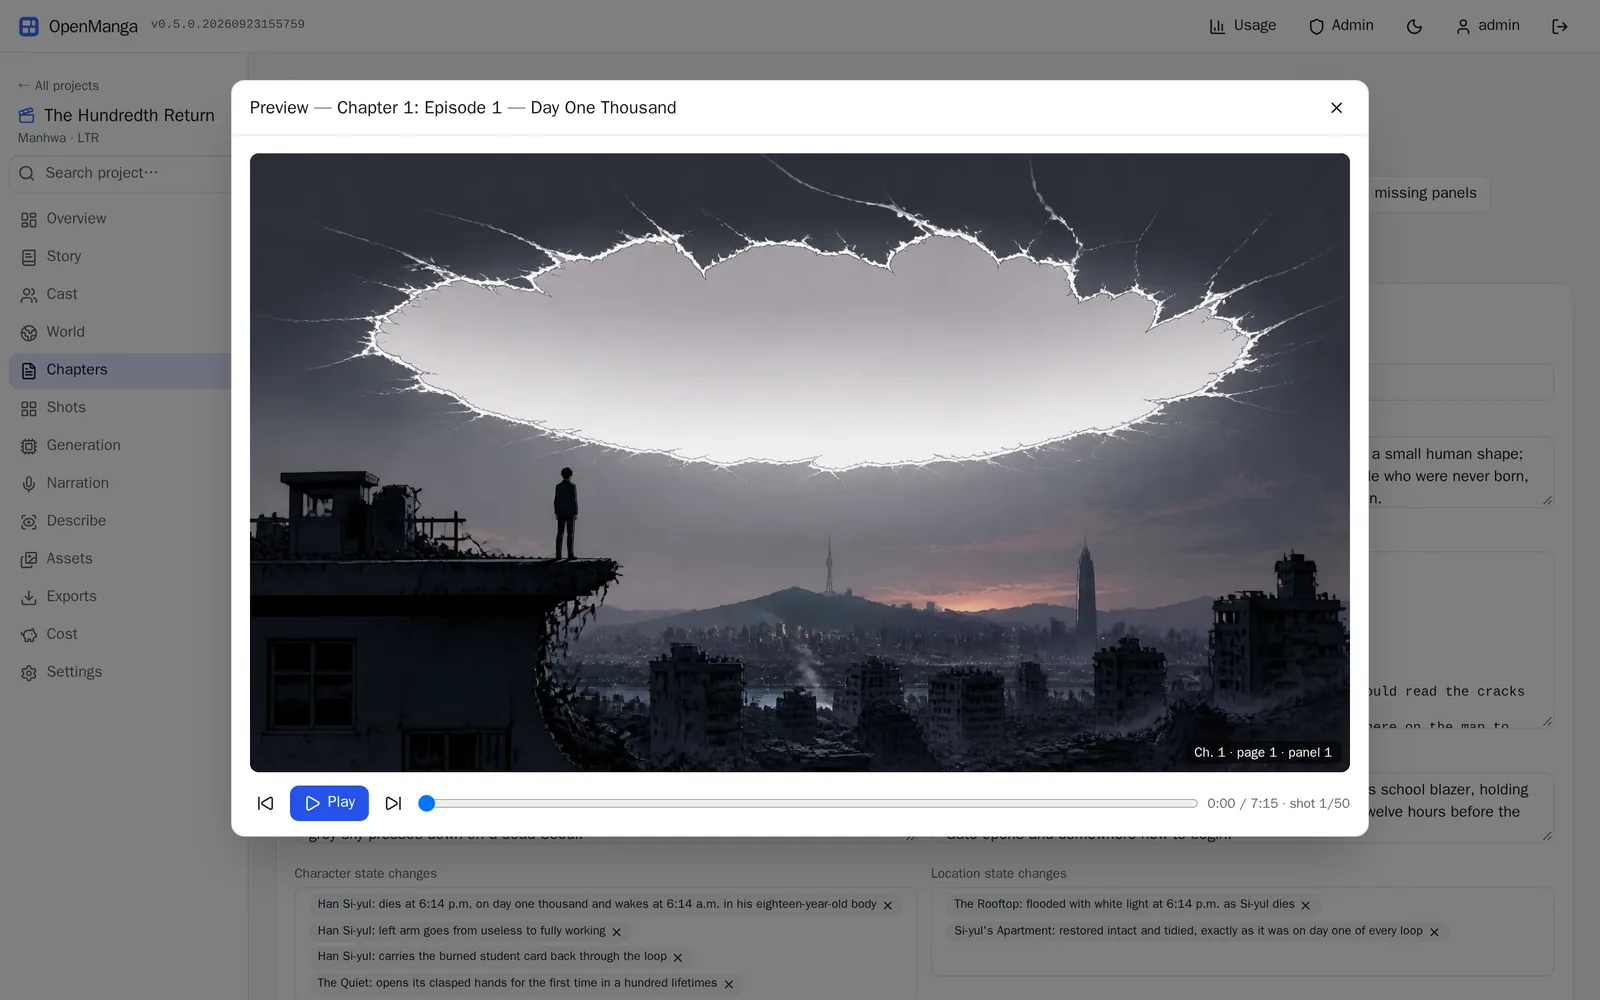
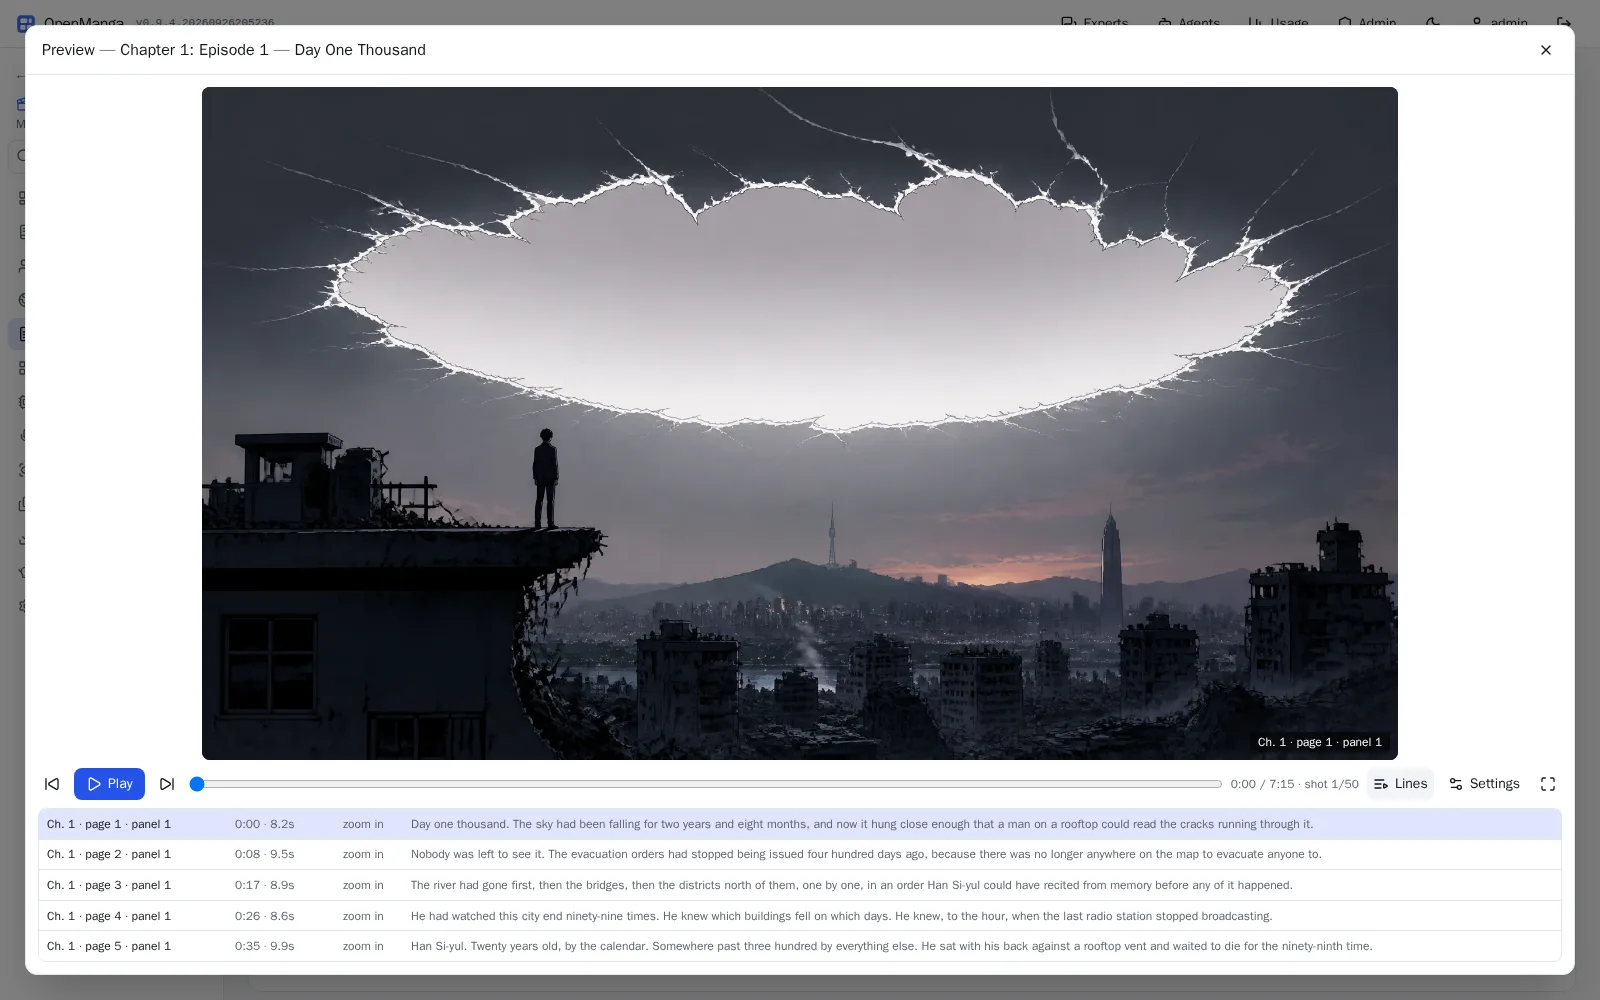
Video preview fixes and new README screenshot (#100)
Merge of staging to master without a release (no version bump, tag or deploy).

- #97: video preview keeps the theme's colours in full screen.
- #98: the fifth line of the shot list shows in full.
- #99: new video preview screenshot in the README.

diff --git a/apps/web/src/features/video/VideoPreview.tsx b/apps/web/src/features/video/VideoPreview.tsx
@@ -437,7 +437,12 @@ export function VideoPreview({
       ) : preview.error ? (
         <ErrorBox error={preview.error} onRetry={() => preview.refetch()} />
       ) : (
-        <div ref={rootRef} className={`flex h-full flex-col gap-2 ${fullscreen ? "bg-black p-3 text-white" : ""}`}>
+        // Full screen keeps the app's own panel colours around the picture (the picture itself is black), so the lines and
+        // settings read exactly as they do in the window, in either theme.
+        <div
+          ref={rootRef}
+          className={`flex h-full flex-col gap-2 ${fullscreen ? "bg-[var(--panel)] p-3 text-[var(--text)]" : ""}`}
+        >
           {/* The picture: all the room the rest leaves. */}
           <div ref={areaRef} className="flex min-h-0 flex-1 items-center justify-center">
             {/* Clicking the picture plays or pauses, like any video player. */}
@@ -614,10 +619,10 @@ export function VideoPreview({
           )}
 
           {showLines && (
-            // Exactly five rows tall; it scrolls, following the shot being played.
+            // Exactly five rows tall (rows, their four dividers and the border); it scrolls, following the current shot.
             <ol
               ref={listRef}
-              className="h-[9.25rem] shrink-0 divide-y divide-[var(--border)] overflow-y-auto rounded-lg border border-[var(--border)] text-xs"
+              className="h-[calc(5*1.85rem+6px)] shrink-0 divide-y divide-[var(--border)] overflow-y-auto rounded-lg border border-[var(--border)] text-xs"
             >
               {timeline.timed.map((s, i) => {
                 const narration = s.shot.segments.map((x) => x.text).join(" ");

diff --git a/README.md b/README.md
@@ -95,7 +95,7 @@ From a live instance, with real projects. Click any image for full size.
 | [![Film shots](docs/images/film-shots.webp)](docs/images/film-shots.webp) | [![Vertical strip reader](docs/images/vertical-reader.webp)](docs/images/vertical-reader.webp) |
 | **Film** — a chapter as 16:9 shots, one per page, rendered as a narrated video. | **Vertical strip** — the chapter as one scrolling column, seams and lettering included, exactly as it exports. |
 | [![Video preview](docs/images/video-preview.webp)](docs/images/video-preview.webp) | [![Exports](docs/images/exports.webp)](docs/images/exports.webp) |
-| **Video preview** — the cut with its camera moves and narration timing, in the browser, before committing to a render. | **Exports** — narrated videos, PDFs, webtoon strips and packages, chapter by chapter. |
+| **Video preview** — the cut with its camera moves and narration, nearly full screen in the browser, with the narration lines below; check it before committing to a render. | **Exports** — narrated videos, PDFs, webtoon strips and packages, chapter by chapter. |
 
 ### Narration, queue and cost
 
